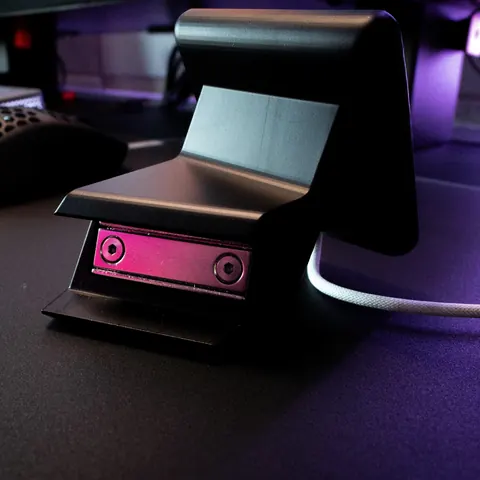
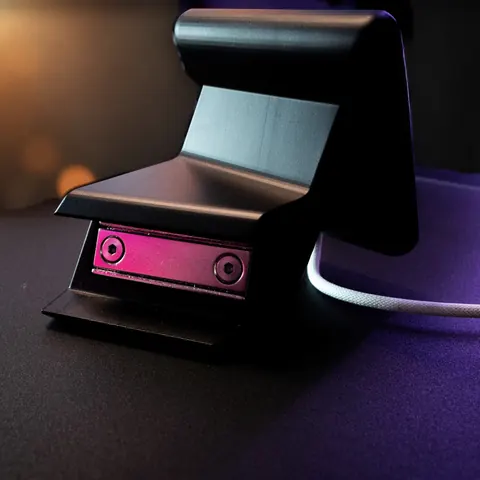
Magnus page v6 preview: studio backgrounds on desk photos, hero overflow fix

Changed region(s): [[0.0, 0.0, 0.4375, 0.4375], [0.8438, 0.0, 1.0, 0.375]]

diff --git a/public/magnus/index.html b/public/magnus/index.html
@@ -88,7 +88,7 @@
   <section class="inuse" id="in-use" aria-labelledby="inuse-title">
     <div class="inuse-inner">
     <h2 id="inuse-title" class="reveal">On the desk</h2>
-    <p class="inuse-lede reveal">Real photos of Magnus in use, straight from the Etsy listing.</p>
+    <p class="inuse-lede reveal">Real photos of Magnus in use, set against a studio backdrop.</p>
     <div class="inuse-grid" tabindex="0" role="region" aria-label="Real photos of Magnus, scroll sideways on small screens">
       <picture>
         <source type="image/webp" srcset="/magnus/assets/img/magnus-inuse-mount-puck-320.webp 320w, /magnus/assets/img/magnus-inuse-mount-puck-480.webp 480w, /magnus/assets/img/magnus-inuse-mount-puck-720.webp 720w" sizes="(min-width: 900px) 225px, 60vw">

diff --git a/public/magnus/assets/css/style.css b/public/magnus/assets/css/style.css
@@ -129,3 +129,4 @@ body::after{content:"";position:fixed;inset:0;pointer-events:none;z-index:30;bac
  .ring .clip{-webkit-mask-image:linear-gradient(to left,transparent,#000 15%);mask-image:linear-gradient(to left,transparent,#000 15%)}
  .buy .clip{-webkit-mask-image:linear-gradient(to right,transparent,#000 15%);mask-image:linear-gradient(to right,transparent,#000 15%)}
 }
+.hero{overflow:clip}
